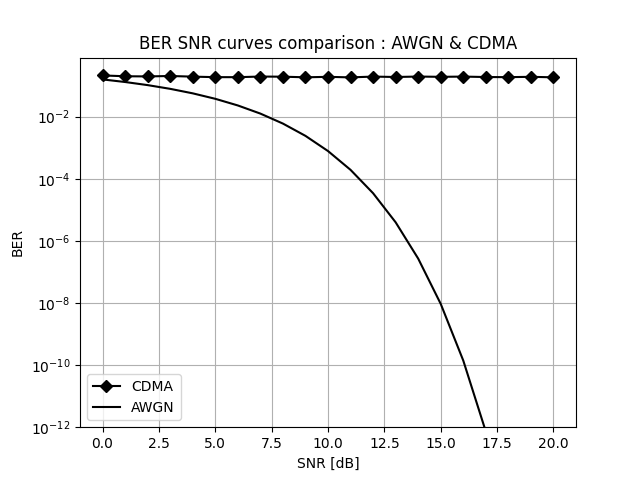
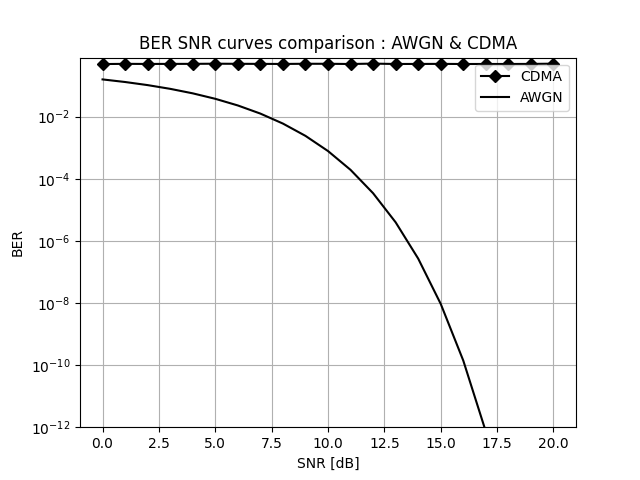
skuwu

Changed region(s): [[0.1562, 0.125, 0.9062, 0.2188], [0.125, 0.7812, 0.2812, 0.875]]

diff --git a/utils.py b/utils.py
@@ -678,7 +678,8 @@ def MyMMSE(symbols, h, var_noise, received):
 
     var_symbols = np.var(symbols)
     var_channel = np.var(h)
-    beta = (h*var_symbols**2)/((abs(h)**2*var_symbols**2)+(var_channel**2*var_symbols**2)+(var_noise**2))
+    # beta = (h*var_symbols**2)/((abs(h)**2*var_symbols**2)+(var_channel**2*var_symbols**2)+(var_noise**2))
+    beta = (h*var_symbols**2)/((var_channel**2*var_symbols**2)+(var_noise**2))
     mmse = received*beta
 
     return mmse
